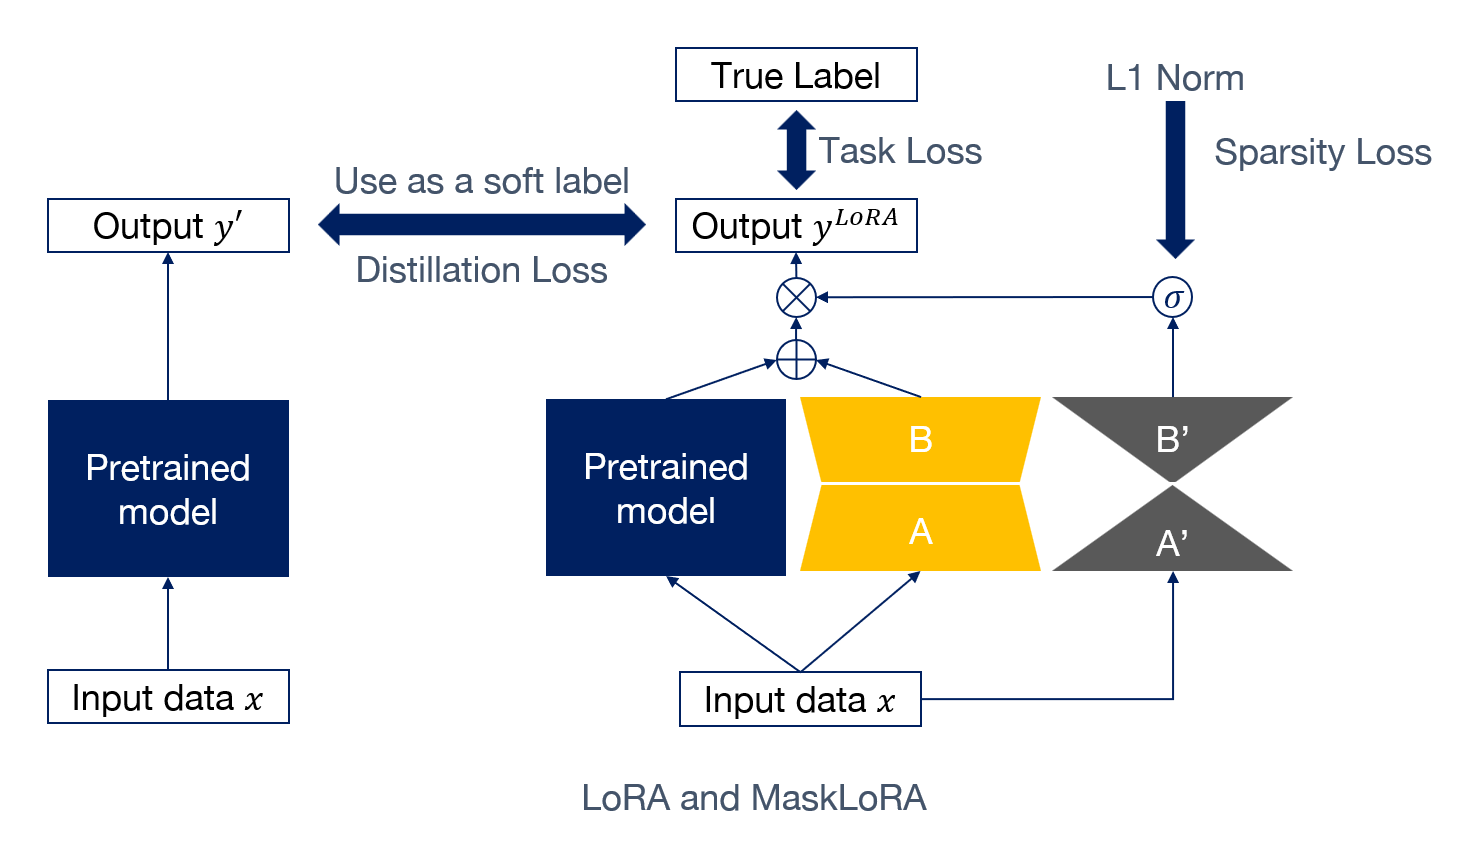
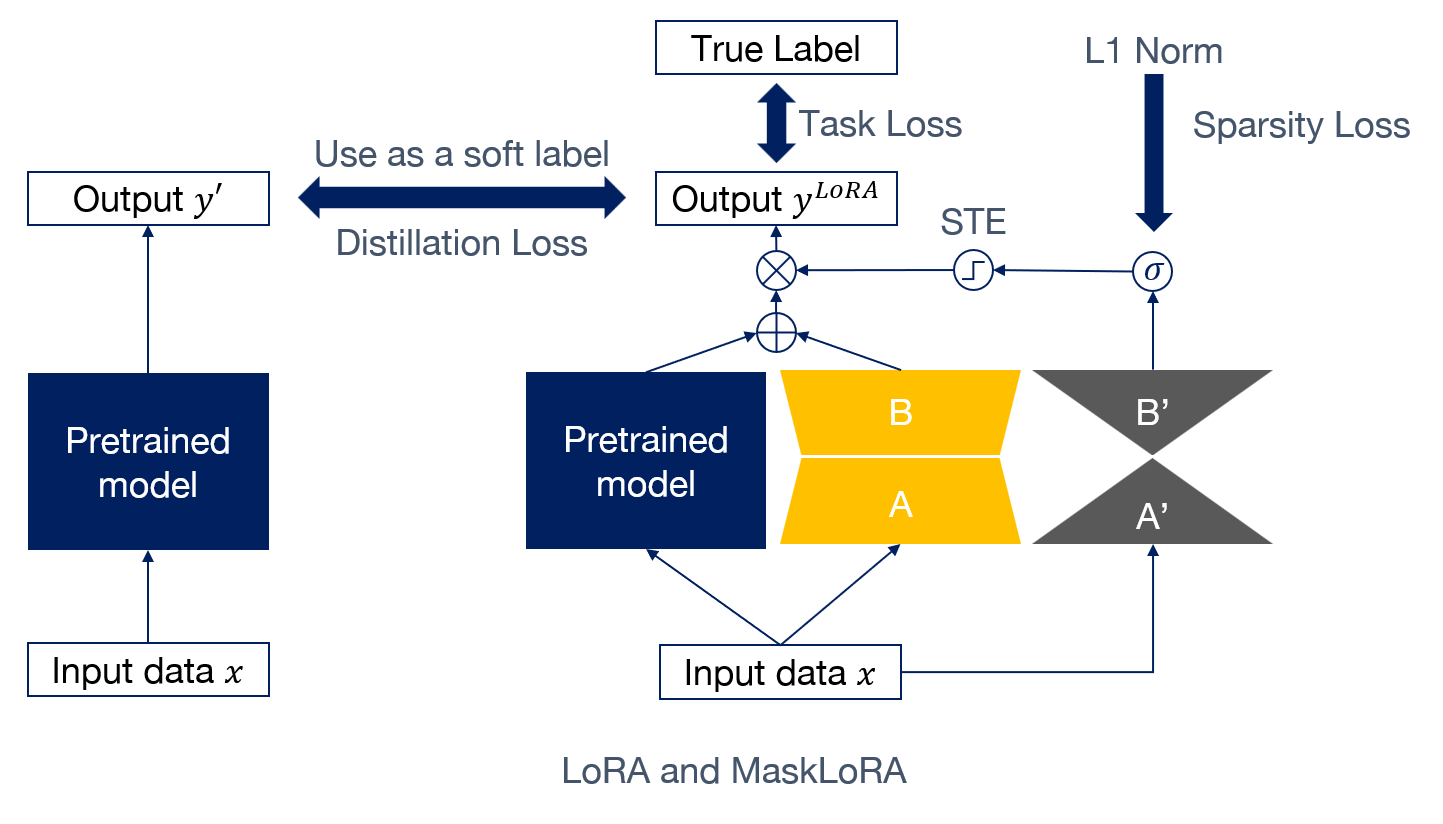
testing copy of notion

diff --git a/_posts/2025-05-29-LoRASKIP.md b/_posts/2025-05-29-LoRASKIP.md
@@ -1,100 +1,267 @@
 ---
 layout: post
-title: "LoRASKIP: RoLA Self Knowledge-dIstillated Pruning"
+title: "LoRASKIP: LoRA Self Knowledge-dIstilled Pruning"
 description: "Just about everything you'll need to style in the theme: headings, paragraphs, blockquotes, tables, code blocks, and more."
 modified: 2025-05-29
 tags: [Efficient AI]
 image:
   path: /images/LoRASKIP_conceptmap.png
   feature: LoRASKIP_conceptmap.png
+
+image_path: /images
 ---
 
-Below is just about everything you'll need to style in the theme. Check the source code to see the many embedded elements within paragraphs.
+# 1. Background
+---
 
-# Heading 1
+### 1. Motivation: What we actually do while studying further more?
 
-## Heading 2
+We can say the **fine-tuning** and **pruning** are both motivated by the **human brain’s behavior**. First, **fine-tuning** can be thought **applying previous knowledge to new knowledge**. It can help us adapt fast and well to the new task. Second, **pruning** is from biological motivation, which is ****our brain **prunes the useless neuron** after get use to some task.
 
-### Heading 3
+In the machine learning area, **most researches think and apply fine-tune and prune models separately** (sure, there is a method that trains and prunes simultaneously using sparsity regularization but does not on fine-tune). But **what “we” actually do??** Does these methods reflect our and our brain’s behavior?? Assume that we have already studied some subject (like linear algebra). Actually, when we study that subject, we decide the **importance of the content** and **only study important content**. The more we study, the **less unimportant content is left for study**. And **finally, we only concentrate on and study the important contents**. Plus, we are **not deciding the importance** of content related to the subject **while resting**. If we do so, it may be just **FORGETTING**, not further studying. If you want to make neural network follow the behavior of our brain, why do you let fine-tune and pruning separately? At the end, we think **pruning is in the area of fine-tuning;** thus we do both **simultaneously**.
 
-#### Heading 4
+<!-- ![Fig 1. Neuron pruning on children’s brain]({{ site.url }}/images/pruning_motivation.png) -->
+![Fig 1. Neuron pruning on children’s brain](pruning_motivation.png)
 
-##### Heading 5
+Fig 1. Neuron pruning on children’s brain
 
-###### Heading 6
+A simple brief of our method: we use **LoRA**, **MaskLoRA** and **self-knowledge distillation**. **LoRA** is for fine-tuning to concentrate important weight, and **MaskLoRA** is for pruning that removes unimportant weight. And finally, we use **self-knowledge distillation** to prevent forgetting original knowledge. The original model’s output applies as a soft label, which contains rich information of the original model.
 
-### Body text
+### 2. LoRA (인용 넣기)
 
-Lorem ipsum dolor sit amet, test link adipiscing elit. **This is strong**. Nullam dignissim convallis est. Quisque aliquam.
+LoRA is **Parameter Efficient Fine-Tuning(PEFT)** method. The author of the LoRA is inspired by the idea that model that have huge parameters lie in a low intrinsic dimension. So, they make the model **only fine-tune a few parameters** which are **relevant with intrinsic low rank**. Practically, they add low-rank parameters that can construct the same size as the model weight with multiplication and fine-tune low-rank parameters only while freezing pre-trained weight.
 
-![Smithsonian Image]({{ site.url }}/images/3953273590_704e3899d5_m.jpg)
-{: .image-right}
+![Fig 2. LoRA method](image.png)
 
-*This is emphasized*. Donec faucibus. Nunc iaculis suscipit dui. 53 = 125. Water is H<sub>2</sub>O. Nam sit amet sem. Aliquam libero nisi, imperdiet at, tincidunt nec, gravida vehicula, nisl. The New York Times <cite>(That’s a citation)</cite>. <u>Underline</u>. Maecenas ornare tortor. Donec sed tellus eget sapien fringilla nonummy. Mauris a ante. Suspendisse quam sem, consequat at, commodo vitae, feugiat in, nunc. Morbi imperdiet augue quis tellus.
+Fig 2. LoRA method
 
-HTML and <abbr title="cascading stylesheets">CSS<abbr> are our tools. Mauris a ante. Suspendisse quam sem, consequat at, commodo vitae, feugiat in, nunc. Morbi imperdiet augue quis tellus. Praesent mattis, massa quis luctus fermentum, turpis mi volutpat justo, eu volutpat enim diam eget metus.
+In more detail, original fine-tuning updates weight as follow.
 
-### Blockquotes
+$$
+W'=W_{0}+\Delta W
+$$
 
-> Lorem ipsum dolor sit amet, test link adipiscing elit. Nullam dignissim convallis est. Quisque aliquam.
+To lower the training parameter, LoRA decomposes updating weight to A and B where $A \in \mathbb{R}^{r \times k}$, $B \in \mathbb{R}^{d \times r}$ ($k$ is the input dimension and $d$ is the output dimention).
 
-## List Types
+$$
+\Delta W = BA
+$$
 
-### Ordered Lists
+Now they train only A and B. Someone can think, ‘Is the output the same as the original fine-tuning?’ But yes, it is. They simply show this with distribution law.
 
-1. Item one
-   1. sub item one
-   2. sub item two
-   3. sub item three
-2. Item two
+$$
+output = W'x=(W_0+\Delta W)x=W_0x+BAx
+$$
 
-### Unordered Lists
+For more detail, please see the original paper (인용넣기).
 
-* Item one
-* Item two
-* Item three
+### 3. Pruning
 
-## Tables
+Pruning is **removing parameters that have low importance**. A model that is done with training may have some unnecessary or redundant parameters that increase usage of memory and operations while not affecting the model’s performance. Pruning improves **inference speed** and **compresses model size** by removing these parameters. There are **many methods available for pruning** the model. For example, we can prune **before training,** **during training,** or **after training,** etc. From here, we are going to use the idea of **pruning during training,** which puts **sparsity regularization on the loss term**. This will be explained in the next chapter. For more detail on pruning, we will leave a survey paper for you (인용 넣기).
 
-| Header1 | Header2 | Header3 |
-|:--------|:-------:|--------:|
-| cell1   | cell2   | cell3   |
-| cell4   | cell5   | cell6   |
-|----
-| cell1   | cell2   | cell3   |
-| cell4   | cell5   | cell6   |
-|=====
-| Foot1   | Foot2   | Foot3
-{: rules="groups"}
+![Fig 3. An overview of the hierarchical structure of the survey on pruning (인용 넣기)](image%201.png)
 
-## Code Snippets
+Fig 3. An overview of the hierarchical structure of the survey on pruning (인용 넣기)
 
-Syntax highlighting via Rouge
+# 2. Method
 
-```css
-#container {
-  float: left;
-  margin: 0 -240px 0 0;
-  width: 100%;
-}
-```
+---
 
-Non Pygments code example
+### 1. LoRA & MaskLoRA
 
-    <div id="awesome">
-        <p>This is great isn't it?</p>
-    </div>
+![Fig 4. Overview of the proposed framework.](LoRASKIP_conceptmap.png)
 
-## Buttons
+Fig 4. Overview of the proposed framework.
 
-Make any link standout more when applying the `.btn` class.
+We extend the standard Low-Rank Adaptation (LoRA) framework by introducing a structured masking mechanism that enables learnable sparsification of LoRA weights. This extension, which we refer to as **MaskLoRA**, equips the model with the ability to simultaneously learn what to update—via low-rank residuals—and where to update—via a structured binary mask over the adaptation weights.
 
-```html
-<a href="#" class="btn btn-success">Success Button</a>
-```
+Standard LoRA enhances a frozen pre-trained weight $W_0$ by adding a learnable low-rank residual $(AB)^\top$, scaled by a factor $\gamma$:
 
-<div markdown="0"><a href="#" class="btn">Primary Button</a></div>
-<div markdown="0"><a href="#" class="btn btn-success">Success Button</a></div>
-<div markdown="0"><a href="#" class="btn btn-warning">Warning Button</a></div>
-<div markdown="0"><a href="#" class="btn btn-danger">Danger Button</a></div>
-<div markdown="0"><a href="#" class="btn btn-info">Info Button</a></div>
+$$
+\hat{W}=W_0+\gamma\cdot (AB)^\top
+$$
+
+In our proposed method, we modulate this residual with a **binary mask** $M\in\mathbb{R}^{ d_h \times d_\text{model}}$, yielding:
+
+$$
+\hat{W} = (W_0 + \gamma \cdot (AB)^\top) \odot M
+$$
+
+where $d_\text{model}$ is the dimensionality of the input token embeddings, and $d_h$ denotes the projection dimension per attention head.
+
+To encourage structured sparsity, the mask $M$ is constructed as the outer product of two vectors:
+
+- $A_{\text{mask}} \in \mathbb{R}^{d_\text{model} \times 1}$, a fixed vector of ones registered as a non-learnable buffer,
+- $B_{\text{mask}} \in \mathbb{R}^{1 \times d_h}$, a learnable row vector optimized during training.
+
+The resulting mask $M$ shares the same pruning pattern across all rows, effectively applying a channel-wise masking strategy. This design simplifies optimization and enables coarse-grained control over which channels in the LoRA update are retained.
+
+In our implementation, the **mask is applied** specifically to the **query and value projection matrices** in each self-attention block. This decision follows the original LoRA paper (인용 넣기 [Hu et al., 2021]), which showed that fine-tuning just the query and value projections is sufficient for effective adaptation in transformer-based architectures, capturing most of the performance benefits with minimal overhead.
+While **channel-wise pruning** does not necessarily guarantee a corresponding reduction in inference latency—especially given the block-structured memory access and kernel fusion behavior of modern accelerators—the **learned sparsity pattern provides valuable insight** into the model’s internal adaptation behavior. 
+
+Pruning a specific channel in the query projection removes the need to consider the corresponding channel in the key projection. Therefore, the successful **pruning in the query projection** may imply that **computing attention weights does not necessarily require contributions** from all channels. On the other hand, **pruning a value projection** channel could imply that the variation introduced by the attention mechanism along that **output direction is unnecessary for the subsequent MLP processing**.  In such cases, the model **instead relies on the residual connection** to propagate information, implying that the unmodified input is already sufficient to represent that semantic subspace.
+
+In our implementation, masked channels are simulated by explicitly zeroing out their corresponding dimensions during inference, thereby preserving functional equivalence while avoiding custom low-level kernels. Even though this does not reduce actual computation, **it exposes a meaningful sparsity pattern** that can be interpreted and potentially exploited by downstream compression techniques.
+
+Also, to convert the real-valued outer product $A_{\text{mask}} B_{\text{mask}}$ into a binary mask, we apply a **sigmoid activation** followed by hard thresholding at a fixed value (e.g., 0.5). Because this thresholding operation is non-differentiable, we adopt the **Straight-Through Estimator (STE)** during training. STE uses the hard-threshold during the forward pass but approximates the gradient as if the sigmoid function had been applied directly, allowing smooth end-to-end optimization of the mask parameters despite their discrete behavior at inference.
+
+Therefore, the final binary mask is constructed as follows:
+
+$$
+M= \text{STE}(\sigma((A_{\text{mask}} B_{\text{mask}})^\top))
+$$
+
+Through this formulation, **MaskLoRA** unifies two essential objectives in parameter-efficient fine-tuning: **performance** and **sparsity**. It enables the model to adapt effectively while selectively suppressing redundant updates in a structured and interpretable manner.
+
+### 2. Loss formulation
+
+To guide the masked adaptation process, we design a composite **loss function** composed of three components: a **task-specific classification loss**, a **distillation loss** from the teacher model, and a **sparsity-inducing regularization term** on the learned mask.
+
+Let $f_{\text{student}}(x) \in \mathbb{R}^C$ and $f_{\text{teacher}}(x) \in \mathbb{R}^C$ denote the logits produced by the student and teacher models respectively for an input image $x$, where $C$ is the number of classes. Let $\mathbf{y} \in \{0,1\}^C$ be the one-hot encoded ground-truth label vector, and $T > 0$ be a temperature parameter. The **total loss** is defined as:
+
+$$
+\mathcal{L}_{\text{total}} = \mathcal{L}_{\text{CE}} + \alpha \cdot \mathcal{L}_{\text{distill}} + \beta \cdot \mathcal{L}_{\text{sparsity}}
+$$
+
+The **classification loss** $\mathcal{L}_{\text{CE}}$ is the standard **cross-entropy loss** computed between the student’s predicted distribution and the one-hot label:
+
+$$
+\mathcal{L}_{\text{CE}} = -\sum_{c=1}^Cy_c\log \left(\text{softmax}(f_\text{student})_c \right)
+$$
+
+The **distillation loss** $\mathcal{L}_{\text{distill}}$ encourages the student model to **preserve the soft output behavior of the original model** before masking was applied. It is computed via the **Kullback–Leibler divergence** between the temperature-scaled output distributions:
+
+$$
+\mathcal{L}_{\text{distill}} = T^2 \cdot \text{KL} \left( \text{softmax} \left( \frac{f_{\text{teacher}}}{T} \right) \Big\| \text{softmax} \left( \frac{f_{\text{student}}}{T} \right) \right)
+$$
+
+In our setting, the **teacher** is not a separate model but the **unmasked version of the student itself**—that is, the same backbone before any masking or pruning is applied. This constitutes a form of **self-distillation**, where the model is trained to **retain its original predictive behavior** even as adaptation and sparsification are introduced. Such regularization helps mitigate the risk of overfitting to the task-specific data and encourages the adapted model to remain close to the original model’s semantic manifold.
+
+The final term, $\mathcal{L}_{\text{sparsity}}$ promotes **mask sparsity**. Specifically, for each transformer block $i$, let $M_{i,q} \in [0, 1]^{ d_h \times d_\text{model}}$ and $M_{i,v} \in [0, 1]^{d_h \times d_\text{model}}$ denote the **soft masks**—i.e., the **output of the sigmoid activations**—applied to the query and value projections, respectively. The sparsity loss is computed as the sum of normalized **$L_{1,1}$ norm** of each mask:
+
+$$
+\mathcal{L}_{\text{sparsity}} = \sum_{i=1}^L \frac{1}{2}\cdot\left( \frac{1}{d_\text{model}d_h} \sum_{j,k} |M_{i,q}^{(j,k)}| + \frac{1}{d_\text{model}d_h} \sum_{j,k} |M_{i,v}^{(j,k)}| \right)
+$$
+
+where $L$ is the number of transformer blocks. This term encourages most mask values to approach zero, thereby pruning redundant adaptation directions, while leaving only a small subset of critical subspaces for task-specific fine-tuning.
+
+Together, the **three terms** define an objective that balances **task performance**, **fidelity to the original model behavior**, and **structural efficiency** in adaptation. By jointly optimizing this loss, the model is encouraged to focus its limited adaptation capacity on dimensions that truly matter, while avoiding unnecessary updates and preserving generalization.
+
+### 3. Training strategy
+
+All experiments were conducted using a **DeiT-Base model** as the backbone. Before conducting full training, we performed **hyperparameter tuning using Optuna**, a widely adopted hyperparameter optimization library based on Bayesian optimization with a Tree-structured Parzen estimator (TPE). Internally, Optuna approximates the posterior over promising regions using a Gaussian mixture model (GMM), and selects sampling candidates by maximizing the expected improvement over observed trials. This approach enables efficient exploration of high-dimensional, continuous search spaces even with limited trial budgets.
+
+We used Optuna to **tune four key hyperparameters**: the **LoRA rank** $r$, the **distillation loss coefficient** $\alpha$, the **distillation temperature** $T$, and the **LoRA scaling factor** $\gamma$. The corresponding search spaces were defined as $r \in \{2, \dots, 8\}$, $\alpha \in [0.1, 1.0]$, $T \in [2.0, 5.0]$, $\gamma \in [0.1, 2.0]$ with all continuous variables explored using a search step size of 0.0001. The **sparsity regularization weight** $\beta$, on the other hand, was **fixed to one of four pre-selected values** $\{0.01, 0.09, 0.21, 1.00\}$, and hyperparameter optimization was performed independently for each setting of $\beta$. The objective of each Optuna trial was to **maximize validation accuracy**, measured not on the ImageNet validation set, but on a **subset of the ImageNet training set constructed by randomly sampling 50 images** per class from the 1000-class ImageNet-1k training split. To avoid confusion, we emphasize that **no part of the official ImageNet validation set was used in any stage of Optuna tuning**.
+
+**Training** for each trial was conducted on a similarly **constructed 50-shot subset** of the ImageNet training set (i.e., **50 samples per class** drawn at random with fixed seed), using a **maximum of 10 training epochs**. Although both the number of epochs and total trials were relatively small, this was a practical choice to manage computational cost. We did not attempt to exhaustively search for the best setting, but **aimed to identify a set of reasonably effective hyperparameters** for use in subsequent fine-tuning.
+
+Among the trials on each fixed-$\beta$ setting, we identified **Pareto-optimal candidates balancing validation accuracy and mask sparsity**—measured by the proportion of entries in the learned binary mask that fell below the hard threshold of 0.5. From the resulting Pareto fronts, we selected **four configurations** that reflected different trade-offs between accuracy and sparsity, with the chosen hyperparameters as follows:
+
+![LoRA (1)-1.png](LoRA_(1)-1.png)
+
+**Using these hyperparameters, we conducted full training** on the entire ImageNet-1k training set. The optimization proceeded in **two phases**. In the **first phase**, both the **LoRA weights and the mask parameters were jointly optimized for 10 epochs**. This joint training phase allowed the model to discover which channels were most relevant for adaptation, while learning a soft mask that reflects the structure of redundant or non-essential adaptation dimensions. In the **second phase**, the **learned mask was frozen for all mask parameters**, and training continued for an **additional 10 epochs** with updates restricted to the **LoRA weights only**. This decoupled training strategy encourages **stability**, and allows the model to **refine the adaptation** within the support already selected by the mask. Furthermore, this process can be considered as **“pretrained model: study all concepts”**, **“self-distilled pruning & fine-tuning: highlighting important concepts”**, **“freeze mask & further tuning: study with only important concepts”** which humans do.
+
+We used the Adam optimizer with a learning rate of $10^{-4}$ and a batch size of 192 throughout the whole phase. However, for the configurations with $\beta = 0.21$ and $\beta = 1.00$, we observed instability in the loss during the second phase. To mitigate this, we reduced the learning rate to $10^{-5}$ in these cases, which led to more stable convergence.
+
+# 3. Results
+
+---
+
+- [x]  masking rate (qv 합쳤을 때임) vs accuracy
+- [x]  다른  method랑 우리 거랑 같이 점으로 plot한거 (parameter vs accuracy): 이건 제가 하겠습니다~! - 현우
+- [x]  각 layer 별로 DeiT-Base 얼마 정도 pruning 되었는지
+- [ ]  high masking rate에서는 subset으로 training했을 때 (요거 기준은 추가 fine tuning 없었을 때임) validation accuracy 높았다ㅠㅠ (이유 대충 추측)
+- [x]  fine tuning 하기 전 accuracy vs fine tuning 한 후 accuracy → 추가 fine tuning의 위력은? (나빠도 여기다 적자)
+
+![masking vs acc.jpg](masking_vs_acc.jpg)
+
+![LoRA-2.png](LoRA-2.png)
+
+![LoRA-3.png](LoRA-3.png)
+
+![LoRA-4.png](LoRA-4.png)
+
+![LoRA-5.png](LoRA-5.png)
+
+![two phase training.jpg](two_phase_training.jpg)
+
+![image.png](image%202.png)
+
+# 4. Limitation
+
+---
+
+There are some **limitations** on our method and claim. But we are happy that this means our method has more potential to further improve. Maybe you guys can find the next research idea from here!
+
+- **Increasing parameter**
+    - Although we are using the LoRA method for fine-tuning and pruning, two LoRA layers are needed, which makes more parameters.
+
+- **Zero parameters are still there**
+    - We are not removing parameters but setting zero using MaskLoRA, so the parameters are still there.
+
+- **Hyperparameter searching**
+    - We need to find optimal hyperparameters using Optuna.
+    - We are using a subset to find hyperparameters but still need a bunch of time.
+    - And saying using a subset, found hyperparameters have the possibility of not being optimal for the model.
+
+- **Not enough experiment (Due to Not enough resources HaHa…)**
+    - We only experienced on DeiT-Base model.
+    - For tasks, we only tested on ImageNet classification task.
+
+- **Relatively Bad Performance**
+    - Compared with other methods, it has relatively bad performance.
+    - We think this occurred since the lack of training epoch.
+
+# 5. Conclusion
+
+---
+
+In this work, we explored LoRASKIP which is a **two-phase training strategy that jointly learns both LoRA weights and channel-wise binary masks**, with the goal of identifying task-relevant adaptation subspaces in vision transformers. To the best of our knowledge, this is the **first study** that reports empirical results on **simultaneously training weight updates and pruning masks** within a **Vision Transformer (ViT) backbone**. While prior works have considered LoRA-based adaptation and pruning-based compression separately, we investigated their joint optimization in a unified framework.
+
+Our central **motivation** stemmed from a simple yet underexplored question: **imitating human behavior**, if structured pruning can be seen as imposing a learnable mask, **is it possible**—and perhaps even beneficial—**to optimize such a mask alongside weight adaptation?** In this view, **pruning** is not merely a conventional model compression method applied after pretraining, but **fundamentally the same optimization process as weight adaptation**, just operating under an explicit sparsity constraint.
+
+Admittedly, the scope of **our investigation was limited by practical constraints**: we did not perform exhaustive comparisons across a wide range of baselines, model architectures, or datasets. As such, our findings cannot offer a definitive answer to the general utility of the approach. 
+
+Nevertheless, we believe **this work remains meaningful**. Through a series of controlled experiments on ImageNet-1k, we observed that jointly learning masks and LoRA weights not only yields stable training behavior but also does not inherently degrade performance. We were initially concerned that this joint optimization might lead to unstable training or divergence, especially in early stages. However, the **training process remained stable**, and in several configurations, the joint approach proved surprisingly **robust**.
+
+Moreover, our findings suggest a subtle yet intriguing phenomenon: in highly constrained training setups where aggressive pruning is applied but **further fine-tuning is impractical**, **using a reduced training set may paradoxically improve final performance**. This may be implying that **mask optimization may not always require prolonged training** to be effective.
+
+The practical implications of our method—for instance, its potential to reduce inference latency or compress model size to an industrially meaningful degree—may remain **limited by current hardware constraints**. Nonetheless, this study highlights a direction worth exploring, not because it promises **immediate deployment** gains, but because **it contributes to our conceptual understanding of sparsity, adaptation, and model efficiency**. Even in the absence of overwhelming success, **negative results or inconclusive findings can guide future research** by clarifying which paths may be less fruitful and which hypotheses merit deeper investigation. We hope that the ideas explored here may inform future studies on structured pruning and adaptation in large-scale models such as LLMs, where balancing sparsity and task performance is of growing practical relevance.
+
+# 회의
+
+---
+
+![Fig 5. illustration of typical sparsity changes from our method](image%203.png)
+
+Fig 5. illustration of typical sparsity changes from our method
+
+LLM에도 사용될 수 있다 이런거 써도 될지도요..?ㅋㅋㅋ
+
+엇 이거 제 파트 아니었네요 ㅋㅋㅋㅋㅋㅋㅋㅋ;; 
+
+아 이거 잠시만요
+
+![image.png](image%204.png)
+
+서베이 논문에서 이런식으로 나타내서 저도 한번 따라해봤어요. 이거 보시면 계단모양으로 iterative하게 pruning이랑 training이 더 진행되는데 저희는 finetuning으로 한번에 처리해서 사선으로 이루어져 있습니다.
+
+![image.png](image%205.png)
+
+수업 때에도 한번 언급하신 것 같아요!
+
+**related works - pruning을 기존 방법으로 하고, 그 다음에 tuning하는 것과 비교를 못함 (이건 연구자-우리-들의 resource 이슈) (”이건 이미 서베이 논문에 있어서 없어도 저희가 안해도 되지 싶어요”)**
+
+역할 분담:
+
+이: Method, Conclusion
+
+정: Background, Limitation
+
+Result는 내일 빠르게 호로록
+
+마지막에 서빈님 이름 넣어야 하는거 잊지 않기! (제 블로그라서 ㅋㅋㅋㅋ 안올리시면 저만 한게 된답니다?)
+
+[poster.pptx](poster.pptx)
+
+![LoRASKIP_conceptmap.png](LoRASKIP_conceptmap.png)
